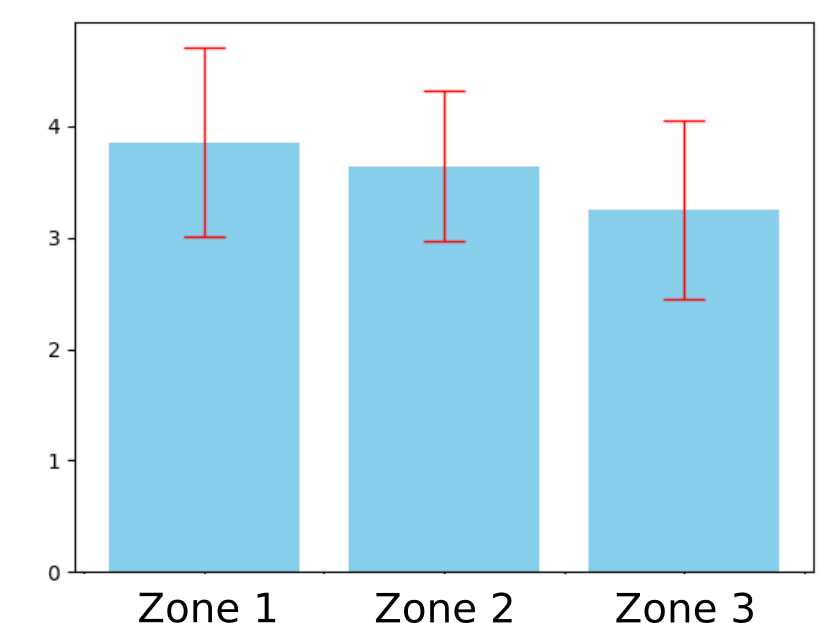
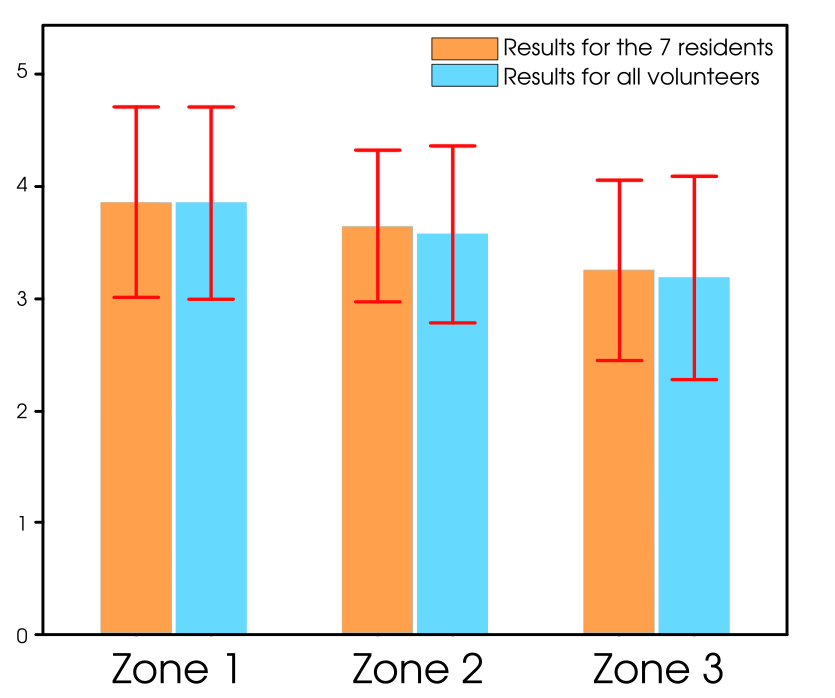
add: 5 volunteers

diff --git a/data/histogram/histogramm_error.py b/data/histogram/histogramm_error.py
@@ -11,7 +11,6 @@ import csv
 file = open("../data.csv");
 csvreader = csv.reader(file);
 header = next(csvreader);
-print(header);
 rows = [];
 for row in csvreader:
     rows.append(row);
@@ -19,27 +18,66 @@ file.close();
 
 # ------------------------------------------------------------------------ #
 # Read datas
-i=0; zone_1=[]; zone_2=[]; zone_3=[]; zone_4=[];
+i=0; zone_1=[]; zone_2=[]; zone_3=[]; zone_4=[]; age=[];
 while(i<len(rows)):
     if not(rows[i]):
         i+=1;
     else:
         if (rows[i][0]=="Experiment n°1"):
             i+=2;
-            while( rows[i] ):
-                zone_1.append(float(rows[i][4]));
-                zone_2.append(float(rows[i][5]));
-                zone_3.append(float(rows[i][6]));
-                zone_4.append(float(rows[i][7]));
-                i+=1;
+            while( i<len(rows) ):
+                if (rows[i][0]=='') : i = len(rows);
+                else :
+                    zone_1.append(float(rows[i][4]));
+                    zone_2.append(float(rows[i][5]));
+                    zone_3.append(float(rows[i][6]));
+                    zone_4.append(float(rows[i][7]));
+                    age.append(float(rows[i][1]));
+                    i+=1;
         i+=1;
 
 # Average and standard deviation
 std_zone_1 = statistics.stdev(zone_1); std_zone_2 = statistics.stdev(zone_2); std_zone_3 = statistics.stdev(zone_3); std_zone_4 = statistics.stdev(zone_4);
 mean_zone_1 = np.mean(zone_1); mean_zone_2 = np.mean(zone_2); mean_zone_3 = np.mean(zone_3); mean_zone_4 = np.mean(zone_4);
-print("\nData:\nZone no.1:", np.around(zone_1,2), "\nZone no.2:", np.around(zone_2,2), "\nZone no.3:", np.around(zone_3,2), "\nZone no.4:", np.around(zone_4,2));
-print("\nAverage:\nZone no.1:", np.around(mean_zone_1,2), "\nZone no.2:", np.around(mean_zone_2,2), "\nZone no.3:", np.around(mean_zone_3,2), "\nZone no.4:", np.around(mean_zone_4,2));
-print("\nStandard deviation:\nZone no.1:", np.around(std_zone_1,2), "\nZone no.2:", np.around(std_zone_2,2), "\nZone no.3:", np.around(std_zone_3,2), "\nZone no.4:", np.around(std_zone_4,2));
+
+print("\x1B[1;36m------------------------------------------------------------------------");
+print("\x1B[1;37;44mExperimentation no.1\x1B[0m");
+print("");
+print("\x1B[1;36mAnswers\x1B[0;36m");
+i=0;
+while(i<len(rows)):
+    if not(rows[i]):
+        i+=1;
+    else:
+        if (rows[i][0]=="Experiment n°1"):
+            print( rows[i+1][0],"\t|",rows[i+1][1],"\t|",rows[i+1][2],"\t|",rows[i+1][3],"\t|",rows[i+1][4],"\t|",rows[i+1][5],"\t|",rows[i+1][6],"\t|",rows[i+1][7],"\t|");
+            i+=2;
+            while( i<len(rows) ):
+                if (rows[i][0]=='') : i = len(rows);
+                else : print( "\t", rows[i][0],"\t|",rows[i][1],"\t|",rows[i][2],"\t|",rows[i][3],"\t\t|",rows[i][4],"\t|",rows[i][5],"\t|",rows[i][6],"\t|",rows[i][7],"\t|"); i+=1;
+        i+=1;
+print("");
+print("\x1B[1;36mPersonal ranking\x1B[0;36m");
+i=0;
+while(i<len(rows)):
+    if not(rows[i]):
+        i+=1;
+    else:
+        if (rows[i][0]=="Ranking"):
+            print( rows[i+1][0],"\t|",rows[i+1][1],"\t|",rows[i+1][2],"\t|",rows[i+1][3],"\t|",rows[i+1][4],"\t|");
+            i+=2;
+            while( i<len(rows) ):
+                if (rows[i][0]=='') : i = len(rows);
+                else : print( "\t", rows[i][0],"\t|",rows[i][1],"\t|",rows[i][2],"\t|",rows[i][3],"\t|",rows[i][4],"\t|"); i+=1;
+        i+=1;
+print("");
+print("\x1B[1;36mAverage and standard deviation\x1B[0;36m");
+print("          \t| Average \t| Standard deviation ","\t|");
+print("Age       \t|", np.around(np.mean(age),2), "\t\t|", np.around(statistics.stdev(age),2),"\t\t|");
+print("Zone no.1 \t|", np.around(mean_zone_1,2), "\t\t|", np.around(std_zone_1,2),"\t\t\t|");
+print("Zone no.2 \t|", np.around(mean_zone_2,2), "\t\t|", np.around(std_zone_2,2),"\t\t\t|");
+print("Zone no.3 \t|", np.around(mean_zone_3,2), "\t\t|", np.around(std_zone_3,2),"\t\t\t|");
+
 
 # Save histogram
 values = [mean_zone_1, mean_zone_2, mean_zone_3, mean_zone_4];
@@ -47,13 +85,15 @@ errorValues = [std_zone_1, std_zone_2, std_zone_3, std_zone_4];
 pyplot.bar(range(len(values)), values, color = 'skyblue');
 pyplot.errorbar(range(len(values)), values, yerr = errorValues,
     fmt = 'none', capsize = 10, ecolor = 'red', elinewidth = 1, capthick = 1);
-pyplot.savefig('histogram_v1.png', transparent = True); pyplot.close();
+pyplot.savefig('histo_v1.png', transparent = True); pyplot.close();
 pyplot.close();
 
 
+
 # ------------------------------------------------------------------------ #
+print("\x1B[1;36m------------------------------------------------------------------------");
 # Read datas
-i=0; zone_1=[]; zone_2=[]; zone_3=[];
+i=0; zone_1=[]; zone_2=[]; zone_3=[]; age=[];
 while(i<len(rows)):
     if not(rows[i]):
         i+=1;
@@ -61,19 +101,75 @@ while(i<len(rows)):
         if (rows[i][0]=="Experiment n°2"):
             i+=2;
             while( i<len(rows) ):
-                zone_1.append(float(rows[i][1+3])); zone_1.append(float(rows[i][5+3])); zone_1.append(float(rows[i][8+3])); zone_1.append(float(rows[i][12+3]));
-                zone_3.append(float(rows[i][4+3])); zone_3.append(float(rows[i][7+3])); zone_3.append(float(rows[i][9+3])); zone_3.append(float(rows[i][10+3]));
-                zone_2.append(float(rows[i][2+3])); zone_2.append(float(rows[i][3+3])); zone_2.append(float(rows[i][6+3])); zone_2.append(float(rows[i][11+3]));
-                i+=1;
+                if (rows[i][0]=='8') : i = len(rows);
+                else :
+                    zone_1.append(float(rows[i][1+3])); zone_1.append(float(rows[i][5+3])); zone_1.append(float(rows[i][8+3])); zone_1.append(float(rows[i][12+3]));
+                    zone_3.append(float(rows[i][4+3])); zone_3.append(float(rows[i][7+3])); zone_3.append(float(rows[i][9+3])); zone_3.append(float(rows[i][10+3]));
+                    zone_2.append(float(rows[i][2+3])); zone_2.append(float(rows[i][3+3])); zone_2.append(float(rows[i][6+3])); zone_2.append(float(rows[i][11+3]));
+                    age.append(float(rows[i][1]));
+                    i+=1;
         i+=1;
-
 
 # Average and standard deviation
 std_zone_1 = statistics.stdev(zone_1); std_zone_2 = statistics.stdev(zone_2); std_zone_3 = statistics.stdev(zone_3);
 mean_zone_1 = np.mean(zone_1); mean_zone_2 = np.mean(zone_2); mean_zone_3 = np.mean(zone_3);
-print("\nData:\nZone no.1:", np.around(zone_1,2), "\nZone no.2:", np.around(zone_2,2), "\nZone no.3:", np.around(zone_3,2));
-print("\nAverage:\nZone no.1:", np.around(mean_zone_1,2), "\nZone no.2:", np.around(mean_zone_2,2), "\nZone no.3:", np.around(mean_zone_3,2));
-print("\nStandard deviation:\nZone no.1:", np.around(std_zone_1,2), "\nZone no.2:", np.around(std_zone_2,2), "\nZone no.3:", np.around(std_zone_3,2));
+
+print("\x1B[1;37;44mExperimentation no.2: 7 residents\x1B[0m");
+print("");
+print("\x1B[1;36mAnswers\x1B[0;36m");
+i=0; nb_people=0;
+while(i<len(rows)):
+    if not(rows[i]):
+        i+=1;
+    else:
+        if (rows[i][0]=="Experiment n°2"):
+            print(  rows[i+1][0],"\t|",rows[i+1][1],"\t|",rows[i+1][2],"\t|",rows[i+1][3],"\t|",
+                    rows[i+1][4],"\t|",rows[i+1][5],"\t|",rows[i+1][6],"\t|",rows[i+1][7],"\t|",
+                    rows[i+1][8],"\t|",rows[i+1][9],"\t|",rows[i+1][10],"\t|",rows[i+1][11],"\t|",
+                    rows[i+1][12],"\t|",rows[i+1][13],"\t|",rows[i+1][14],"\t|",rows[i+1][15],"\t|");
+            i+=2;
+            while( i<len(rows) ):
+                if (rows[i][0]=='8') : i = len(rows);
+                else : print("\t",  rows[i][0],"\t|",rows[i][1],"\t|",rows[i][2],"\t|",rows[i][3],"\t\t|",
+                                    rows[i][4],"\t|",rows[i][5],"\t|",rows[i][6],"\t|",rows[i][7],"\t|",
+                                    rows[i][8],"\t|",rows[i][9],"\t|",rows[i][10],"\t|",rows[i][11],"\t|",
+                                    rows[i][12],"\t|",rows[i][13],"\t|",rows[i][14],"\t|",rows[i][15],"\t|"); i+=1; nb_people+=1;
+        i+=1;
+print("");
+print("\x1B[1;36mAverage and standard deviation\x1B[0;36m");
+i=0;
+while(i<len(rows)):
+    if not(rows[i]):
+        i+=1;
+    else:
+        if (rows[i][0]=="Experiment n°2"):
+            i+=2;
+            nb_people_str = "Personne no. \t| "; ligne1 = "Zone no.1 \t| "; ligne2 = "Zone no.2 \t| "; ligne3 = "Zone no.3 \t| "; j=1;
+            while( j<=nb_people ) : nb_people_str += str(j) + "\t\t| "; j+=1;
+            print(nb_people_str);
+            while( i<len(rows) ):
+                if (rows[i][0]=='8') : i = len(rows);
+                else :
+                    z1_mean_str = np.around(np.mean( [float(rows[i][1+3]),float(rows[i][5+3]),float(rows[i][8+3]),float(rows[i][12+3])]),2);
+                    z1_std_str = np.around(statistics.stdev([float(rows[i][1+3]),float(rows[i][5+3]),float(rows[i][8+3]),float(rows[i][12+3])]),2);
+                    z2_mean_str = np.around(np.mean([float(rows[i][4+3]),float(rows[i][7+3]),float(rows[i][9+3]),float(rows[i][10+3])]),2);
+                    z2_std_str = np.around(statistics.stdev([float(rows[i][4+3]),float(rows[i][7+3]),float(rows[i][9+3]),float(rows[i][10+3])]),2);
+                    z3_mean_str = np.around(np.mean([float(rows[i][2+3]),float(rows[i][3+3]),float(rows[i][6+3]),float(rows[i][11+3])]),2);
+                    z3_std_str = np.around(statistics.stdev([float(rows[i][2+3]),float(rows[i][3+3]),float(rows[i][6+3]),float(rows[i][11+3])]),2);
+                    ligne1 += str(z1_mean_str) + "±" + str(z1_std_str) + "\t| ";
+                    ligne2 += str(z2_mean_str) + "±" + str(z2_std_str) + "\t| ";
+                    ligne3 += str(z3_mean_str) + "±" + str(z3_std_str) + "\t| ";
+                    i+=1;
+        i+=1;
+print(ligne1);
+print(ligne2);
+print(ligne3);
+print("");
+print("          \t| Average \t| Standard deviation \t|");
+print("Age       \t|", np.around(np.mean(age),2), "\t|", np.around(statistics.stdev(age),2), "\t\t\t|");
+print("Zone no.1 \t|", np.around(mean_zone_1,2), "\t\t|", np.around(std_zone_1,2), "\t\t\t|");
+print("Zone no.2 \t|", np.around(mean_zone_2,2), "\t\t|", np.around(std_zone_2,2), "\t\t\t|");
+print("Zone no.3 \t|", np.around(mean_zone_3,2), "\t\t|", np.around(std_zone_3,2), "\t\t\t|");
 
 # Save histogram
 values = [mean_zone_1, mean_zone_2, mean_zone_3];
@@ -81,5 +177,109 @@ errorValues = [std_zone_1, std_zone_2, std_zone_3];
 pyplot.bar(range(len(values)), values, color = 'skyblue');
 pyplot.errorbar(range(len(values)), values, yerr = errorValues,
     fmt = 'none', capsize = 10, ecolor = 'red', elinewidth = 1, capthick = 1);
-pyplot.savefig('histogram_v2.png', transparent = True); pyplot.close();
-pyplot.close();
+pyplot.savefig('histo_v2_7.png', transparent = True); pyplot.close();
+
+
+
+
+# ------------------------------------------------------------------------ #
+print("\x1B[1;36m------------------------------------------------------------------------");
+# Read datas
+i=0; zone_1=[]; zone_2=[]; zone_3=[]; age=[];
+while(i<len(rows)):
+    if not(rows[i]):
+        i+=1;
+    else:
+        if (rows[i][0]=="Experiment n°2"):
+            i+=2;
+            while( i<len(rows) ):
+                if (rows[i][0]=='') : i = len(rows);
+                else :
+                    zone_1.append(float(rows[i][1+3])); zone_1.append(float(rows[i][5+3])); zone_1.append(float(rows[i][8+3])); zone_1.append(float(rows[i][12+3]));
+                    zone_3.append(float(rows[i][4+3])); zone_3.append(float(rows[i][7+3])); zone_3.append(float(rows[i][9+3])); zone_3.append(float(rows[i][10+3]));
+                    zone_2.append(float(rows[i][2+3])); zone_2.append(float(rows[i][3+3])); zone_2.append(float(rows[i][6+3])); zone_2.append(float(rows[i][11+3]));
+                    age.append(float(rows[i][1]));
+                    i+=1;
+        i+=1;
+
+# Average and standard deviation
+std_zone_1 = statistics.stdev(zone_1); std_zone_2 = statistics.stdev(zone_2); std_zone_3 = statistics.stdev(zone_3);
+mean_zone_1 = np.mean(zone_1); mean_zone_2 = np.mean(zone_2); mean_zone_3 = np.mean(zone_3);
+
+print("\x1B[1;37;44mExperimentation no.2: all volunteers\x1B[0m");
+print("");
+print("\x1B[1;36mAnswers\x1B[0;36m");
+i=0; nb_people=0;
+while(i<len(rows)):
+    if not(rows[i]):
+        i+=1;
+    else:
+        if (rows[i][0]=="Experiment n°2"):
+            print(  rows[i+1][0],"\t|",rows[i+1][1],"\t|",rows[i+1][2],"\t|",rows[i+1][3],"\t|",
+                    rows[i+1][4],"\t|",rows[i+1][5],"\t|",rows[i+1][6],"\t|",rows[i+1][7],"\t|",
+                    rows[i+1][8],"\t|",rows[i+1][9],"\t|",rows[i+1][10],"\t|",rows[i+1][11],"\t|",
+                    rows[i+1][12],"\t|",rows[i+1][13],"\t|",rows[i+1][14],"\t|",rows[i+1][15],"\t|");
+            i+=2;
+            while( i<len(rows) ):
+                if (rows[i][0]=='') : i = len(rows);
+                else : print("\t",  rows[i][0],"\t|",rows[i][1],"\t|",rows[i][2],"\t|",rows[i][3],"\t\t|",
+                                    rows[i][4],"\t|",rows[i][5],"\t|",rows[i][6],"\t|",rows[i][7],"\t|",
+                                    rows[i][8],"\t|",rows[i][9],"\t|",rows[i][10],"\t|",rows[i][11],"\t|",
+                                    rows[i][12],"\t|",rows[i][13],"\t|",rows[i][14],"\t|",rows[i][15],"\t|"); i+=1; nb_people+=1;
+        i+=1;
+print("");
+print("\x1B[1;36mAverage and standard deviation\x1B[0;36m");
+i=0;
+while(i<len(rows)):
+    if not(rows[i]):
+        i+=1;
+    else:
+        if (rows[i][0]=="Experiment n°2"):
+            i+=2;
+            nb_people_str = "Personne no. \t| "; ligne1 = "Zone no.1 \t| "; ligne2 = "Zone no.2 \t| "; ligne3 = "Zone no.3 \t| "; j=1;
+            while( j<=nb_people ) : nb_people_str += str(j) + "\t\t| "; j+=1;
+            print(nb_people_str);
+            while( i<len(rows) ):
+                if (rows[i][0]=='') : i = len(rows);
+                else :
+                    z1_mean_str = np.around(np.mean( [float(rows[i][1+3]),float(rows[i][5+3]),float(rows[i][8+3]),float(rows[i][12+3])]),2);
+                    z1_std_str = np.around(statistics.stdev([float(rows[i][1+3]),float(rows[i][5+3]),float(rows[i][8+3]),float(rows[i][12+3])]),2);
+                    z2_mean_str = np.around(np.mean([float(rows[i][4+3]),float(rows[i][7+3]),float(rows[i][9+3]),float(rows[i][10+3])]),2);
+                    z2_std_str = np.around(statistics.stdev([float(rows[i][4+3]),float(rows[i][7+3]),float(rows[i][9+3]),float(rows[i][10+3])]),2);
+                    z3_mean_str = np.around(np.mean([float(rows[i][2+3]),float(rows[i][3+3]),float(rows[i][6+3]),float(rows[i][11+3])]),2);
+                    z3_std_str = np.around(statistics.stdev([float(rows[i][2+3]),float(rows[i][3+3]),float(rows[i][6+3]),float(rows[i][11+3])]),2);
+                    ligne1 += str(z1_mean_str) + "±" + str(z1_std_str) + "\t| ";
+                    ligne2 += str(z2_mean_str) + "±" + str(z2_std_str) + "\t| ";
+                    ligne3 += str(z3_mean_str) + "±" + str(z3_std_str) + "\t| ";
+                    i+=1;
+        i+=1;
+print(ligne1);
+print(ligne2);
+print(ligne3);
+print("");
+print("          \t| Average \t| Standard deviation \t|");
+print("Age       \t|", np.around(np.mean(age),2), "\t|", np.around(statistics.stdev(age),2), "\t\t|");
+print("Zone no.1 \t|", np.around(mean_zone_1,2), "\t\t|", np.around(std_zone_1,2), "\t\t\t|");
+print("Zone no.2 \t|", np.around(mean_zone_2,2), "\t\t|", np.around(std_zone_2,2), "\t\t\t|");
+print("Zone no.3 \t|", np.around(mean_zone_3,2), "\t\t|", np.around(std_zone_3,2), "\t\t\t|");
+
+# Save histogram
+values = [mean_zone_1, mean_zone_2, mean_zone_3];
+errorValues = [std_zone_1, std_zone_2, std_zone_3];
+pyplot.bar(range(len(values)), values, color = 'skyblue');
+pyplot.errorbar(range(len(values)), values, yerr = errorValues,
+    fmt = 'none', capsize = 10, ecolor = 'red', elinewidth = 1, capthick = 1);
+pyplot.savefig('histo_v2_12.png', transparent = True); pyplot.close();
+
+
+
+
+#   void ERROR( std::string msg ) { std::cout << "\x1B[1;37;41m" << msg << "\x1B[0m" << std::endl; exit(0); }
+#   void error( std::string msg ) { std::cout << "\x1B[1;31m" << msg << "\x1B[0m" << std::endl; }
+#   void warning( std::string msg ) { std::cout << "\x1B[1;33m" << msg << "\x1B[0m" << std::endl; }
+#   void debug( std::string msg ) { std::cout << "\x1B[1;45;37m" << msg << "\x1B[0m" << std::endl; }
+#   void subdebug( std::string msg ) { std::cout << "\x1B[1;35m" << msg << "\x1B[0m" << std::endl; }
+#   void subsubdebug( std::string msg ) { std::cout << "\x1B[0;35m" << msg << "\x1B[0m" << std::endl; }
+#   void info( std::string msg ) { std::cout << "\x1B[1;36m" << msg << "\x1B[0m" << std::endl; }
+#   void subinfo( std::string msg ) { std::cout << "\x1B[0;36m" << msg << "\x1B[0m" << std::endl; }
+#   void subsubinfo( std::string msg ) { std::cout << "\x1B[1;34m" << msg << "\x1B[0m" << std::endl; }
